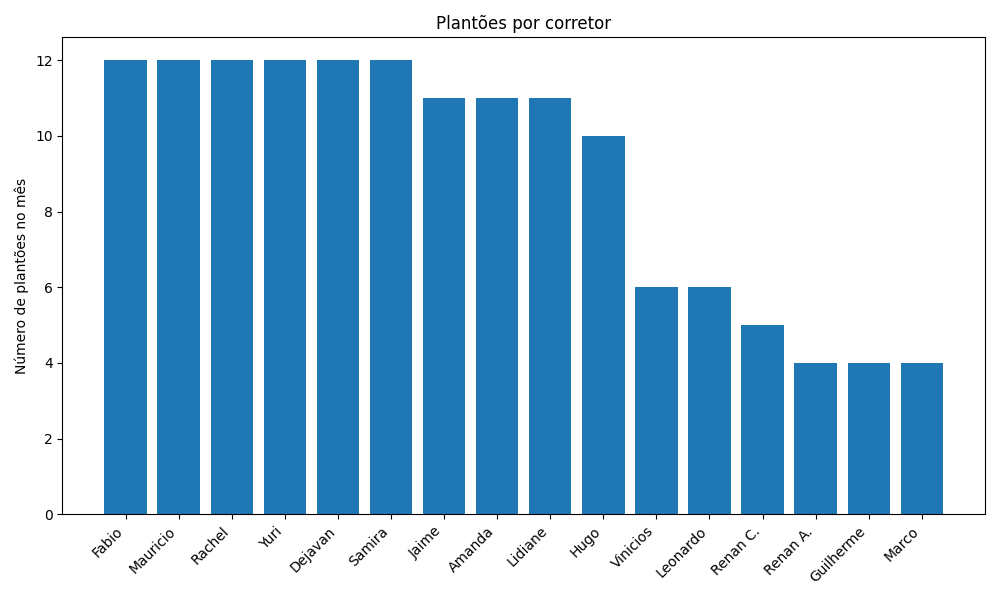
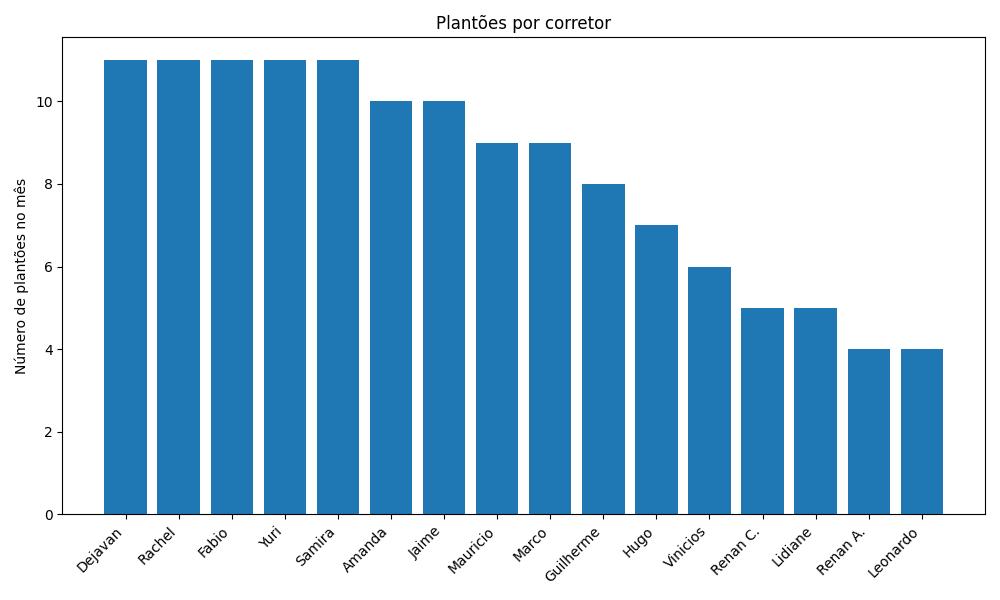
Ajustes2

diff --git a/main.py b/main.py
@@ -18,7 +18,7 @@ EXIGIR_LEADS = True
 LIMIAR_LEADS = 40           # Definiçaõ do limite de leads em contato/ captados
 
 MIN_PLANTAO_POR_MES = 4
-MAX_PLANTAO_POR_MES = 12
+MAX_PLANTAO_POR_MES = 16
 
 GLPSOL_PATH = "glpsol"   
 CSV_IN = "PO_corretores.csv"
@@ -156,19 +156,19 @@ def main():
     if max_possible_assignments < total_needed:
         raise SystemExit("[erro] Impossível atender todos os plantões com o MAX_PLANTAO_POR_MES atual e número de corretores.")
 
-    # Criando modelo aqui, minimizando o máximo de plantões por corretor
+    # Criando problema e inficando minimização nessa parte aqui, nós usamos essa bibliotec pulp
     prob = pulp.LpProblem("Escalonamento_com_leads_por_turno", pulp.LpMinimize)
 
-    # variáveis binárias
+    # variaveis binárias
     x = pulp.LpVariable.dicts("x", (corretores_safe, range(n_turnos)), lowBound=0, upBound=1, cat="Binary")
 
-    # variável que representa o máximo de plantões por corretor (nome seguro)
+    # variavel q representa o máximo de plantões por corretor
     MaxPlant = pulp.LpVariable("MaxPlant", lowBound=0, upBound=MAX_PLANTAO_POR_MES, cat="Integer")
 
-    # objetivo: minimizar o MaxPlant (minimax)
+    # minimizar o MaxPlant 
     prob += MaxPlant
 
-    # demanda por turno
+    # demanda por turno,  3 em cada
     for ti in range(n_turnos):
         prob += pulp.lpSum([x[b][ti] for b in corretores_safe]) == req[turnos[ti]]
 
@@ -177,7 +177,7 @@ def main():
         if seniors_safe:
             prob += pulp.lpSum([x[b][ti] for b in seniors_safe]) >= 1
 
-    # restrições por atributo por turno 
+    # restrições por atributo por turno, cria variáveis em formato de lista antes de adicioanar também
     if exigir_vendas:
         brokers_vendas_safe = [safe_by_real[r] for r in corretores if vendas.get(r, 0) > LIMIAR_VENDAS]
         for ti in range(n_turnos):
@@ -193,7 +193,6 @@ def main():
         for ti in range(n_turnos):
             prob += pulp.lpSum([x[b][ti] for b in brokers_imoveis_safe]) >= 1
 
-    # LEADS por turno (obrigatório)
     if exigir_leads:
         brokers_leads_safe = [safe_by_real[r] for r in corretores if leads.get(r, 0) > LIMIAR_LEADS]
         for ti in range(n_turnos):
@@ -221,7 +220,7 @@ def main():
             if idxs0 and idxs1:
                 prob += pulp.lpSum([x[b][ii] for ii in idxs0] + [x[b][ii] for ii in idxs1]) <= 1
 
-    # tentar resolver com GLPK; se falhar, fallback para CBC
+    # resolver com GLPK
     status_str = None
     try:
         solver = pulp.GLPK_CMD(path=GLPSOL_PATH, msg=True)
@@ -236,14 +235,13 @@ def main():
         print("Verifique limites MIN/MAX plantões, requisitos rígidos (postagens/vendas/imoveis/leads) e quantidade de corretores.")
         return
 
-    # imprimir valor mínimo de MaxPlant encontrado
     try:
         valM = int(round(pulp.value(MaxPlant)))
         print(f"Máximo de plantões por corretor minimizado (MaxPlant): {valM}")
     except Exception:
         print("Não foi possível recuperar o valor de MaxPlant.")
 
-    # construir saída
+    # aqui construimos o output
     rows = []
     for ti, (date_iso, part) in enumerate(turnos):
         alloc_safe = [b for b in corretores_safe if pulp.value(x[b][ti]) is not None and round(pulp.value(x[b][ti])) == 1]
